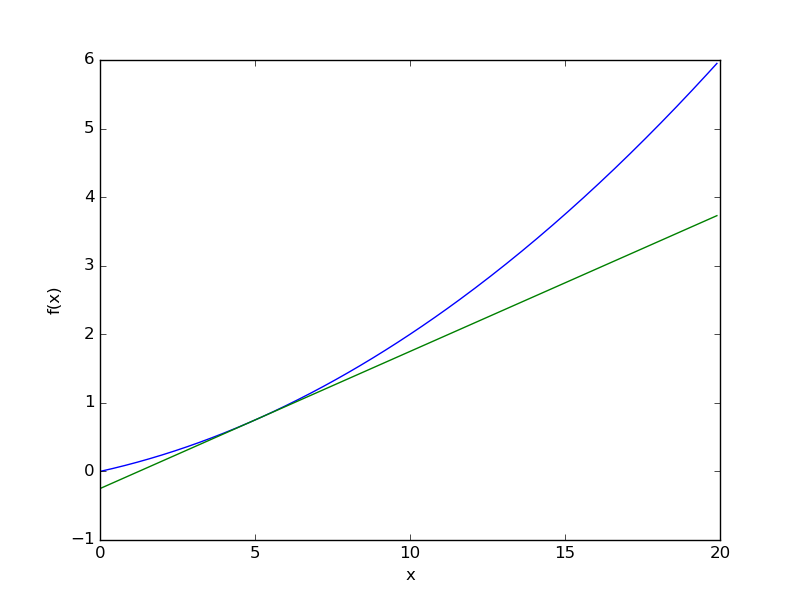
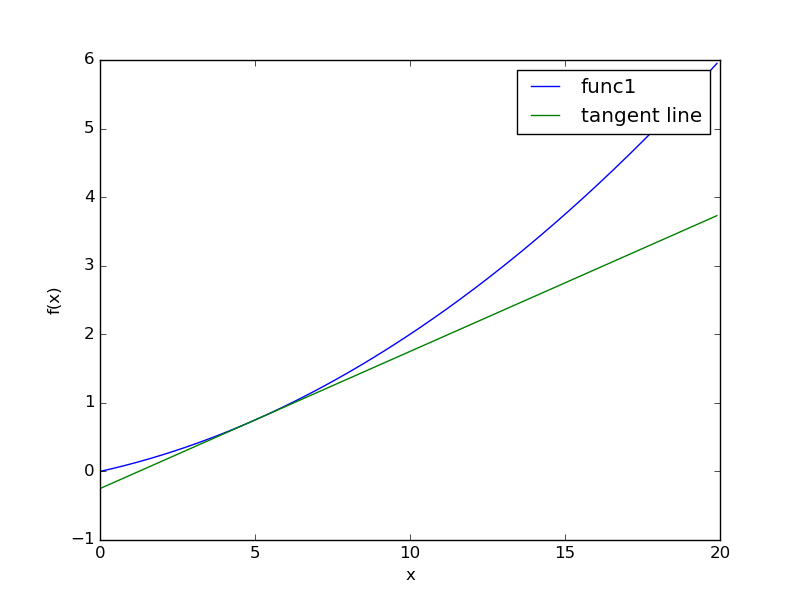
fix regend of tangent graph

Changed region(s): [[0.625, 0.09, 0.9062, 0.24]]

diff --git a/ch04/diff_test.py b/ch04/diff_test.py
@@ -9,8 +9,10 @@ def plt_tangent(x, y, tangent, save=False, filename='test.png'):
     plt.xlabel("x")
     plt.ylabel("f(x)")
 
-    plt.plot(x, y)
-    plt.plot(x, tangent)
+    plt.plot(x, y, label='func1')
+    plt.plot(x, tangent, label='tangent line')
+
+    plt.legend()
 
     if save:
         plt.savefig(filename)
